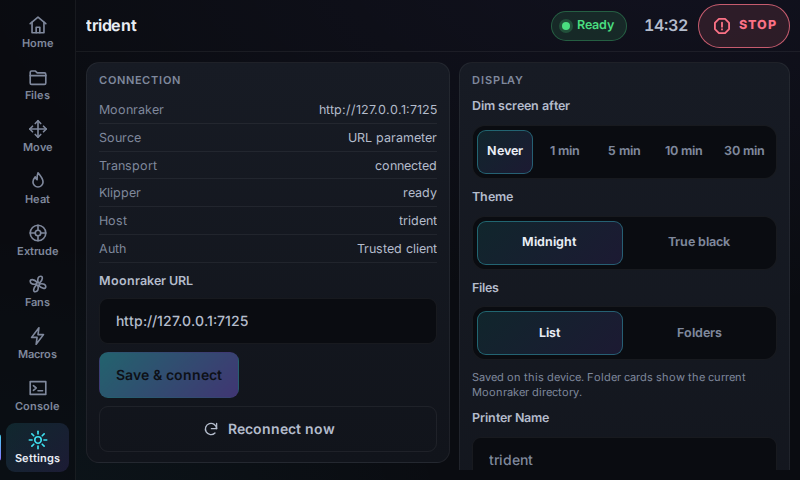
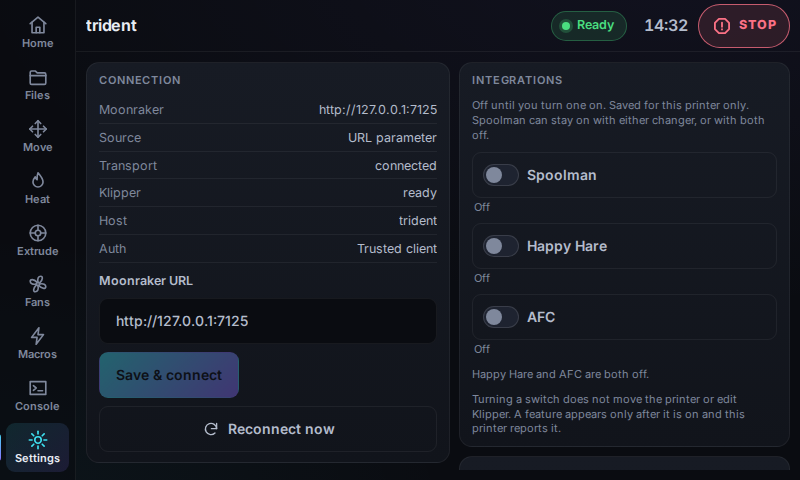
Keep changer reconnects from retriggering on printer updates
The Settings effect called reconnect while Svelte was still tracking printer state, so one Happy Hare or AFC toggle reconnected on every status update. Read the revision inside the effect and reconnect outside that tracking.

diff --git a/src/components/TopBar.svelte b/src/components/TopBar.svelte
@@ -1,4 +1,5 @@
 <script lang="ts">
+  import { untrack } from 'svelte';
   import { app } from '../lib/context';
   import { formatClock } from '../lib/format';
   import { integrations } from '../lib/integrations/store.svelte';
@@ -8,10 +9,13 @@
   const { store, settings, printer } = app();
   const printerState = store.state;
   integrations.bind(printer.id, printer.moonrakerUrl);
+  const connection = store.source.connection;
 
+  // Reconnect outside the effect's tracking. The client reads printer state while
+  // connecting, and tracking that read would reconnect on every status update.
   $effect(() => {
     if (integrations.statusRevision === 0) return;
-    store.source.connection?.reconnect();
+    untrack(() => connection?.reconnect());
   });
   const clock = $derived(formatClock(printerState.now));
   const name = $derived(settings.value.displayName.trim() || printerState.printerName);
